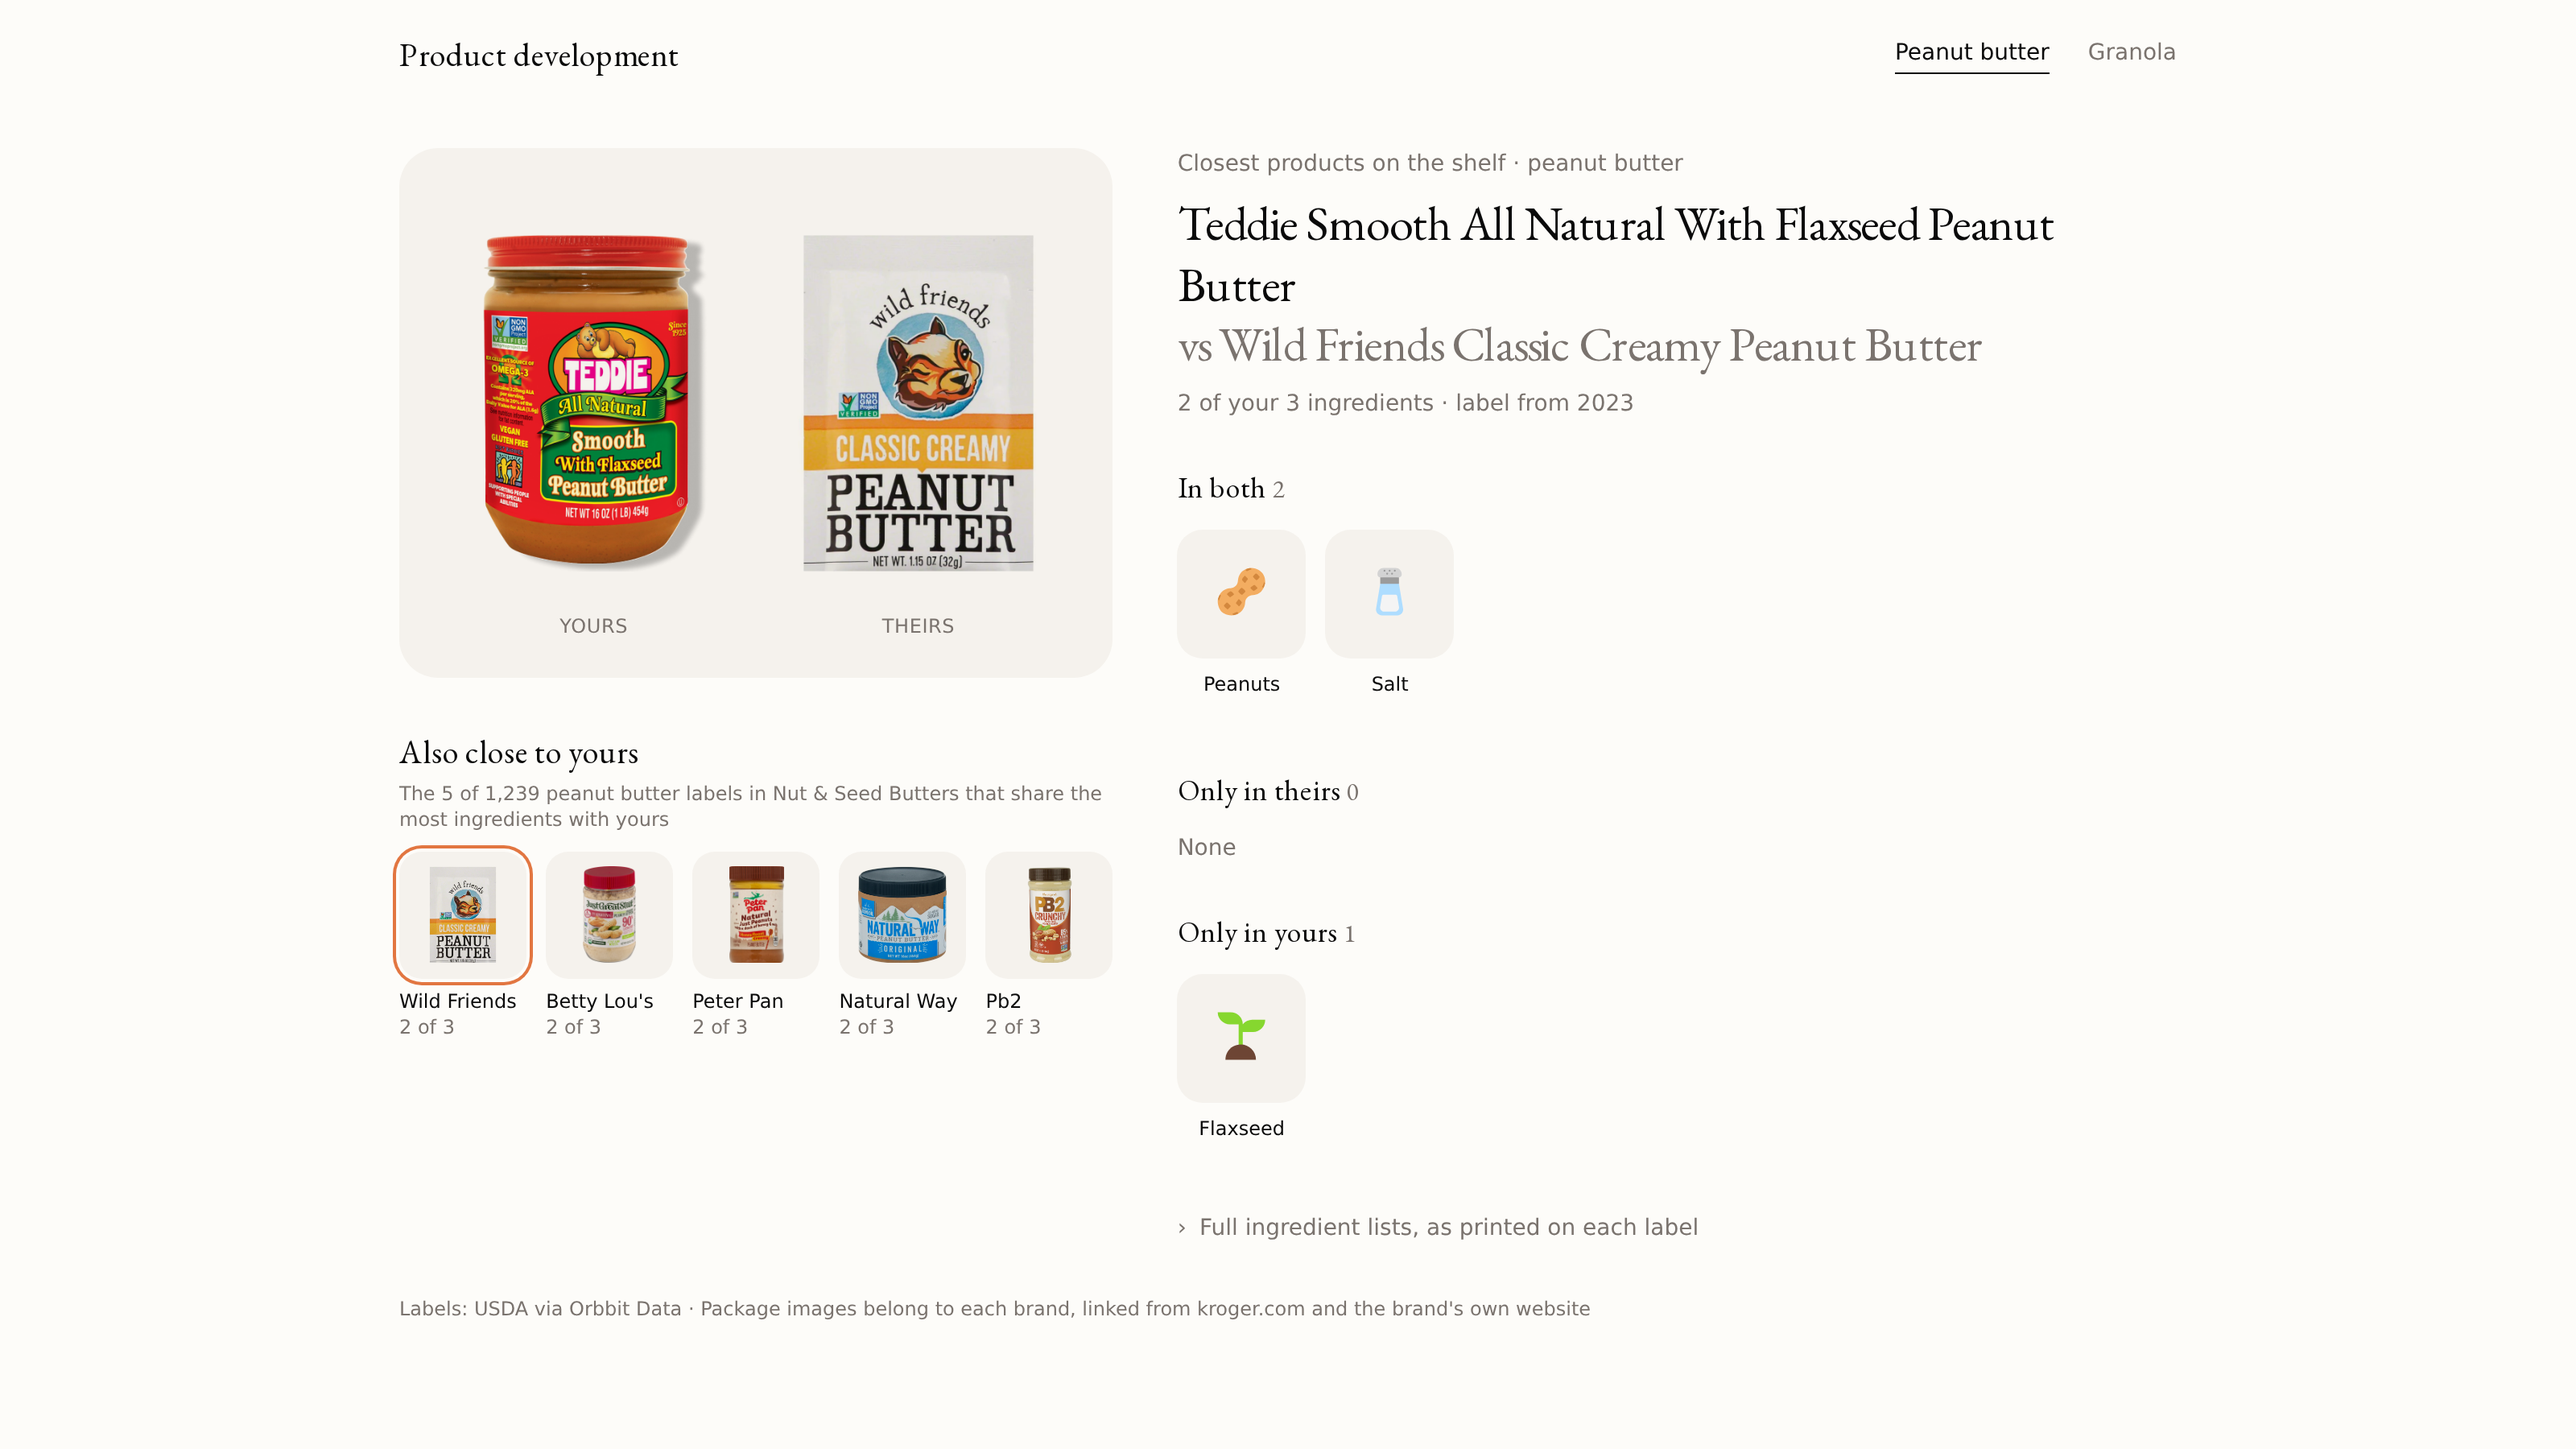
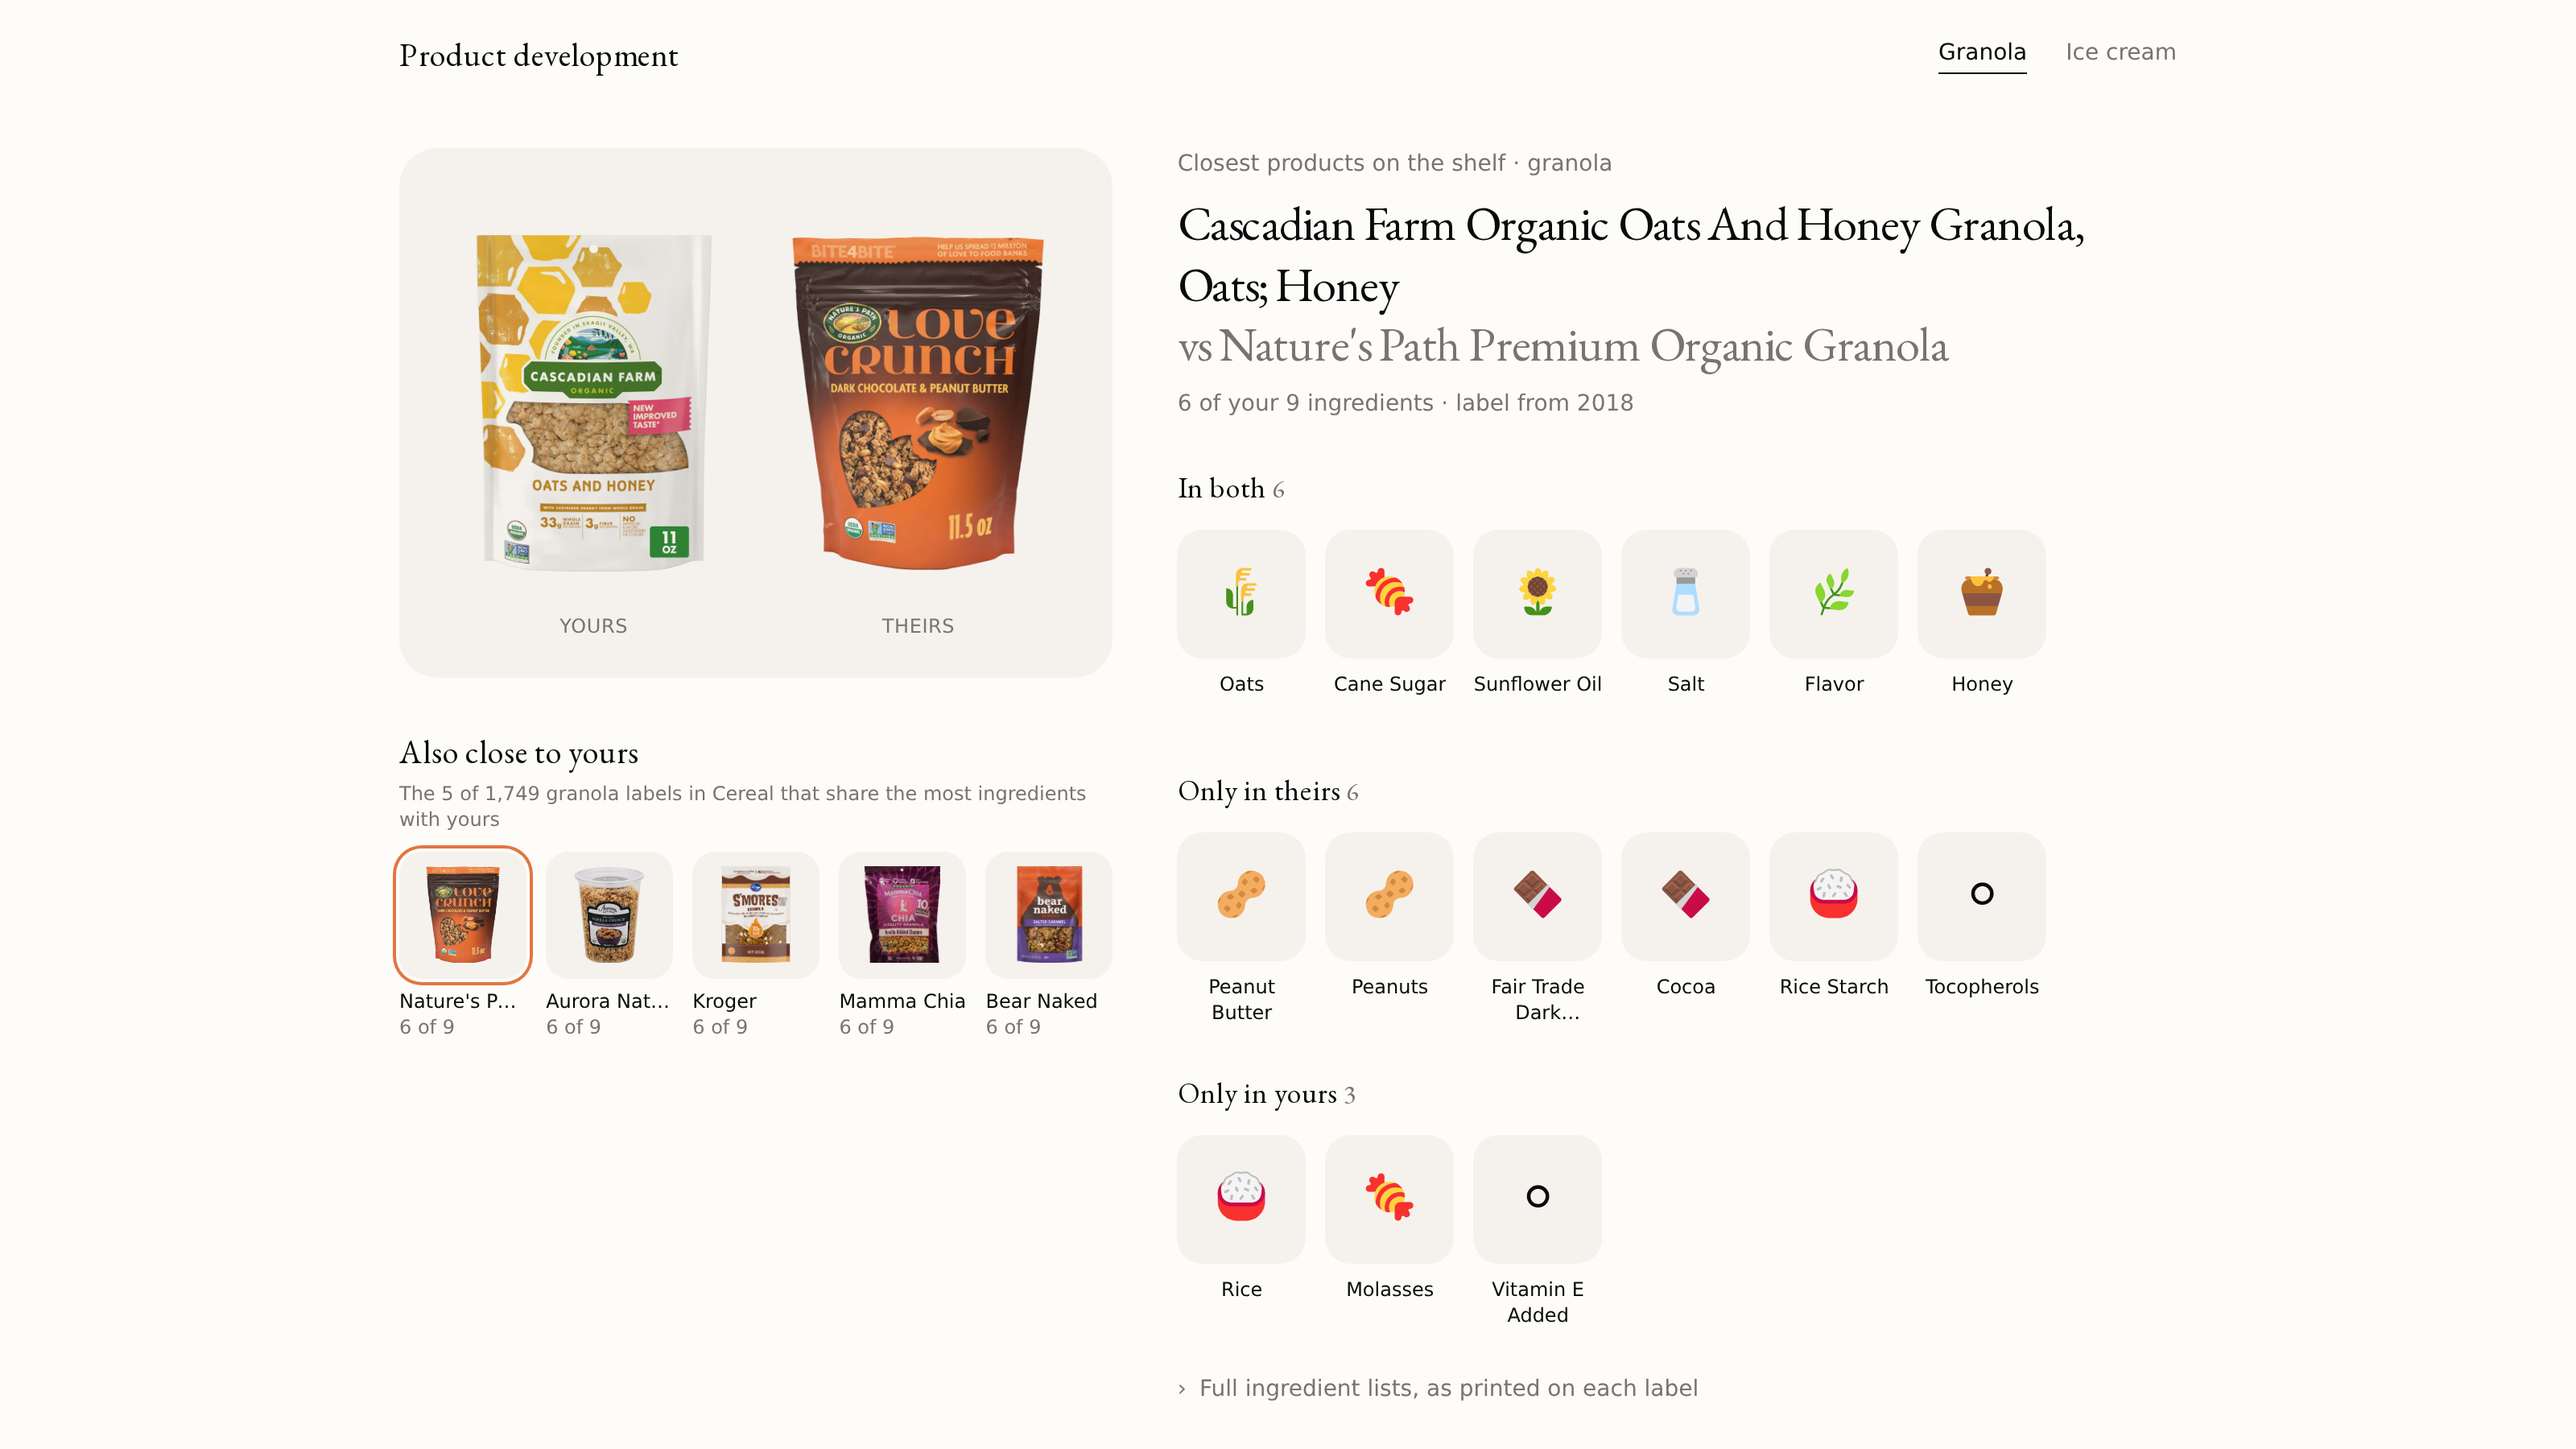
feat: compare granola and cookie dough ice cream instead of peanut butter

diff --git a/examples/branded-food-labels/competitor-product-ingredients/components/competitor-panel.tsx b/examples/branded-food-labels/competitor-product-ingredients/components/competitor-panel.tsx
@@ -90,7 +90,7 @@ export function CompetitorPanel({
             <h2 className="font-serif text-3xl leading-tight tracking-tight">
               {productName}
               <span className="text-muted-foreground block">
-                vs {title(selected.brand)} {productTitle(selected.name)}
+                vs {title(selected.brand)} {withoutBrand(productTitle(selected.name), selected.brand)}
               </span>
             </h2>
             <p data-testid="match-line" className="text-muted-foreground text-sm">
@@ -247,6 +247,7 @@ const hueOf = (text: string) => [...text].reduce((h, c) => (h * 31 + c.charCodeA
 
 // A picture for each ingredient: the first matching word wins, else one per kind.
 const EMOJI: [RegExp, string][] = [
+  [/cookie/, '🍪'], [/caramel|toffee/, '🍮'], [/brownie|cake/, '🍰'], [/coffee|espresso/, '☕'], [/gum|carrageenan|lecithin|pectin/, '🌱'],
   [/maple/, '🍁'], [/honey/, '🍯'], [/peanut/, '🥜'], [/sunflower/, '🌻'], [/pumpkin/, '🎃'], [/coconut/, '🥥'],
   [/almond|pecan|walnut|cashew|hazelnut|pistachio/, '🌰'], [/sesame|tahini|flax|chia|hemp|seed/, '🌱'],
   [/oat|wheat|barley|rye|flour|grain/, '🌾'], [/rice/, '🍚'], [/corn/, '🌽'], [/chocolate|cocoa/, '🍫'],
@@ -263,4 +264,6 @@ const emojiFor = (name: string, kind: IngredientKind) => EMOJI.find(([pattern]) 
 
 const title = (text: string) => text.toLowerCase().replace(/(^|[\s(&/-])([a-z])/g, (_, before, c) => before + c.toUpperCase())
 // USDA names often repeat their parts ("GRANOLA, CINNAMON, RAISIN, CINNAMON, RAISIN").
+// USDA names often start with the brand again ("FARR BETTER, FROZEN CUSTARD").
+const withoutBrand = (name: string, brand: string) => name.replace(new RegExp(`^${title(brand).replace(/[.*+?^${}()|[\]\\]/g, '\\$&')},?\\s*`, 'i'), '')
 const productTitle = (text: string) => title([...new Set(text.split(',').map((p) => p.trim()))].join(', '))

diff --git a/examples/branded-food-labels/competitor-product-ingredients/scripts/screenshot.ts b/examples/branded-food-labels/competitor-product-ingredients/scripts/screenshot.ts
@@ -4,7 +4,7 @@ import { chromium } from '@playwright/test'
 
 const browser = await chromium.launch()
 const page = await browser.newPage({ viewport: { width: 1600, height: 900 }, deviceScaleFactor: 2 })
-await page.goto(`${process.env.DEMO_URL ?? 'http://localhost:3000'}/products/peanut-butter`)
+await page.goto(`${process.env.DEMO_URL ?? 'http://localhost:3000'}/products/granola`)
 await page.locator('[data-testid="competitor-row"]').first().waitFor()
 await page.waitForFunction(() => [...document.images].every((img) => img.complete)) // package images
 

diff --git a/examples/branded-food-labels/competitor-product-ingredients/app/page.tsx b/examples/branded-food-labels/competitor-product-ingredients/app/page.tsx
@@ -1,5 +1,5 @@
 import { redirect } from 'next/navigation'
 
 export default function Home() {
-  redirect('/products/peanut-butter')
+  redirect('/products/granola')
 }

diff --git a/examples/branded-food-labels/competitor-product-ingredients/README.md b/examples/branded-food-labels/competitor-product-ingredients/README.md
@@ -2,7 +2,7 @@
 
 A feature you add to software for food brands: on each product page, the closest competing products on the shelf, and which ingredients both use, only theirs uses, and only yours uses.
 
-![Competitor Product Ingredients: Teddie peanut butter next to its closest competitors](./assets/demo.png)
+![Competitor Product Ingredients: Cascadian Farm granola next to its closest competitors](./assets/demo.png)
 
 **Data set:** [Branded Food Labels](https://www.orbbit.co/data/developers/data-directory) · **Endpoint:** [`GET /v1/branded-foods`](https://docs.orbbit.co/industry-data/cpg/branded-food) · **Cost:** $0.01 per 200 labels, cached for 7 days
 
@@ -18,14 +18,14 @@ The labels are public. US brands report each packaged food's ingredient statemen
 
 ## What this demo is
 
-A small Next.js app that shows the finished feature for two real products, Teddie peanut butter with flaxseed and Cascadian Farm oats and honey granola. Each page reads the product's own label, then compares it with every other label of the same type.
+A small Next.js app that shows the finished feature for two real products, Cascadian Farm oats and honey granola and Tillamook chocolaty chip cookie dough ice cream. Each page reads the product's own label, then compares it with every other label of the same type.
 
 You copy one file, plus the panel if you want it. The rest of the app is there so you can see the feature working before you copy it.
 
 ## Why use Orbbit Data for it
 
 - **No data pipeline to build.** Orbbit Data already collects the USDA labels and serves them by name, category, barcode or ingredient.
-- **Pay per request.** Each request returns up to 200 labels for $0.01, with no subscription or minimum. The 1,239 peanut butter labels take 7 requests, $0.07, and the demo keeps the result for 7 days.
+- **Pay per request.** Each request returns up to 200 labels for $0.01, with no subscription or minimum. The 1,749 granola labels take 9 requests, $0.09, and the demo keeps the result for 7 days.
 - **A feature to sell.** A side-by-side with real competitors is something your customers cannot get from their own records, so it can sit in a paid plan.
 - **Ready for coding agents.** One file, a server-only API key, a cache and tests. You or your coding agent can follow the steps below as written.
 
@@ -33,7 +33,7 @@ You copy one file, plus the panel if you want it. The rest of the app is there s
 
 The closest products are the labels that share the most ingredients with yours. A tie goes to the shorter ingredient list, and each brand appears once. Ingredients are compared after cleaning, so "ORGANIC ROLLED OATS" and "WHOLE GRAIN OATS" both count as oats, and "SEA SALT" counts as salt.
 
-Each label is as the brand last reported it to USDA, sometimes years ago, so the page shows each label's year. Use it to compare recipes, never to say a product is safe for an allergy. The full ingredient lists, as printed, open under the comparison.
+An asterisk in a label, as in "OATS*, ... *ORGANIC", is the brand's own footnote; the cleaning drops it. Each label is as the brand last reported it to USDA, sometimes years ago, so the page shows each label's year. Use it to compare recipes, never to say a product is safe for an allergy. The full ingredient lists, as printed, open under the comparison.
 
 ## How to use it
 
@@ -45,9 +45,9 @@ Each label is as the brand last reported it to USDA, sometimes years ago, so the
    import { getCachedClosestCompetitors } from '@/lib/competitor-ingredients'
 
    const result = await getCachedClosestCompetitors(
-     'DRY ROASTED PEANUTS, FLAXSEED, SALT', // your customer's recipe, written like a label
-     'peanut butter', // a word competing products' names contain
-     'Nut & Seed Butters', // the category to search
+     'WHOLE GRAIN OATS, CANE SUGAR, RICE, SUNFLOWER OIL, HONEY, SEA SALT', // your customer's recipe, written like a label
+     'granola', // a word competing products' names contain
+     'Cereal', // the category to search
    )
    ```
 
@@ -61,7 +61,7 @@ Outside Next.js, delete the last section of `lib/competitor-ingredients.ts` and 
 
 ### About the package images
 
-The images belong to each brand. The demo links to them on kroger.com, which serves a front-of-pack image for each barcode it sells, and to the brand's own website for Teddie. It never copies them, and it shows only competitors that have an image. Check that your use of brand images fits your product before you ship it.
+The images belong to each brand. The demo links to them on kroger.com, which serves a front-of-pack image for each barcode it sells, or to the brand's own website. It never copies them, and it shows only competitors that have an image. Check that your use of brand images fits your product before you ship it.
 
 ## Run the demo
 
@@ -72,7 +72,7 @@ npm install
 npm run dev
 ```
 
-Open http://localhost:3000. It shows the peanut butter and granola products listed in [`lib/sample-products.json`](./lib/sample-products.json).
+Open http://localhost:3000. It shows the granola and ice cream products listed in [`lib/sample-products.json`](./lib/sample-products.json).
 
 ```bash
 npm test             # the cleaning and ranking, with the API faked
